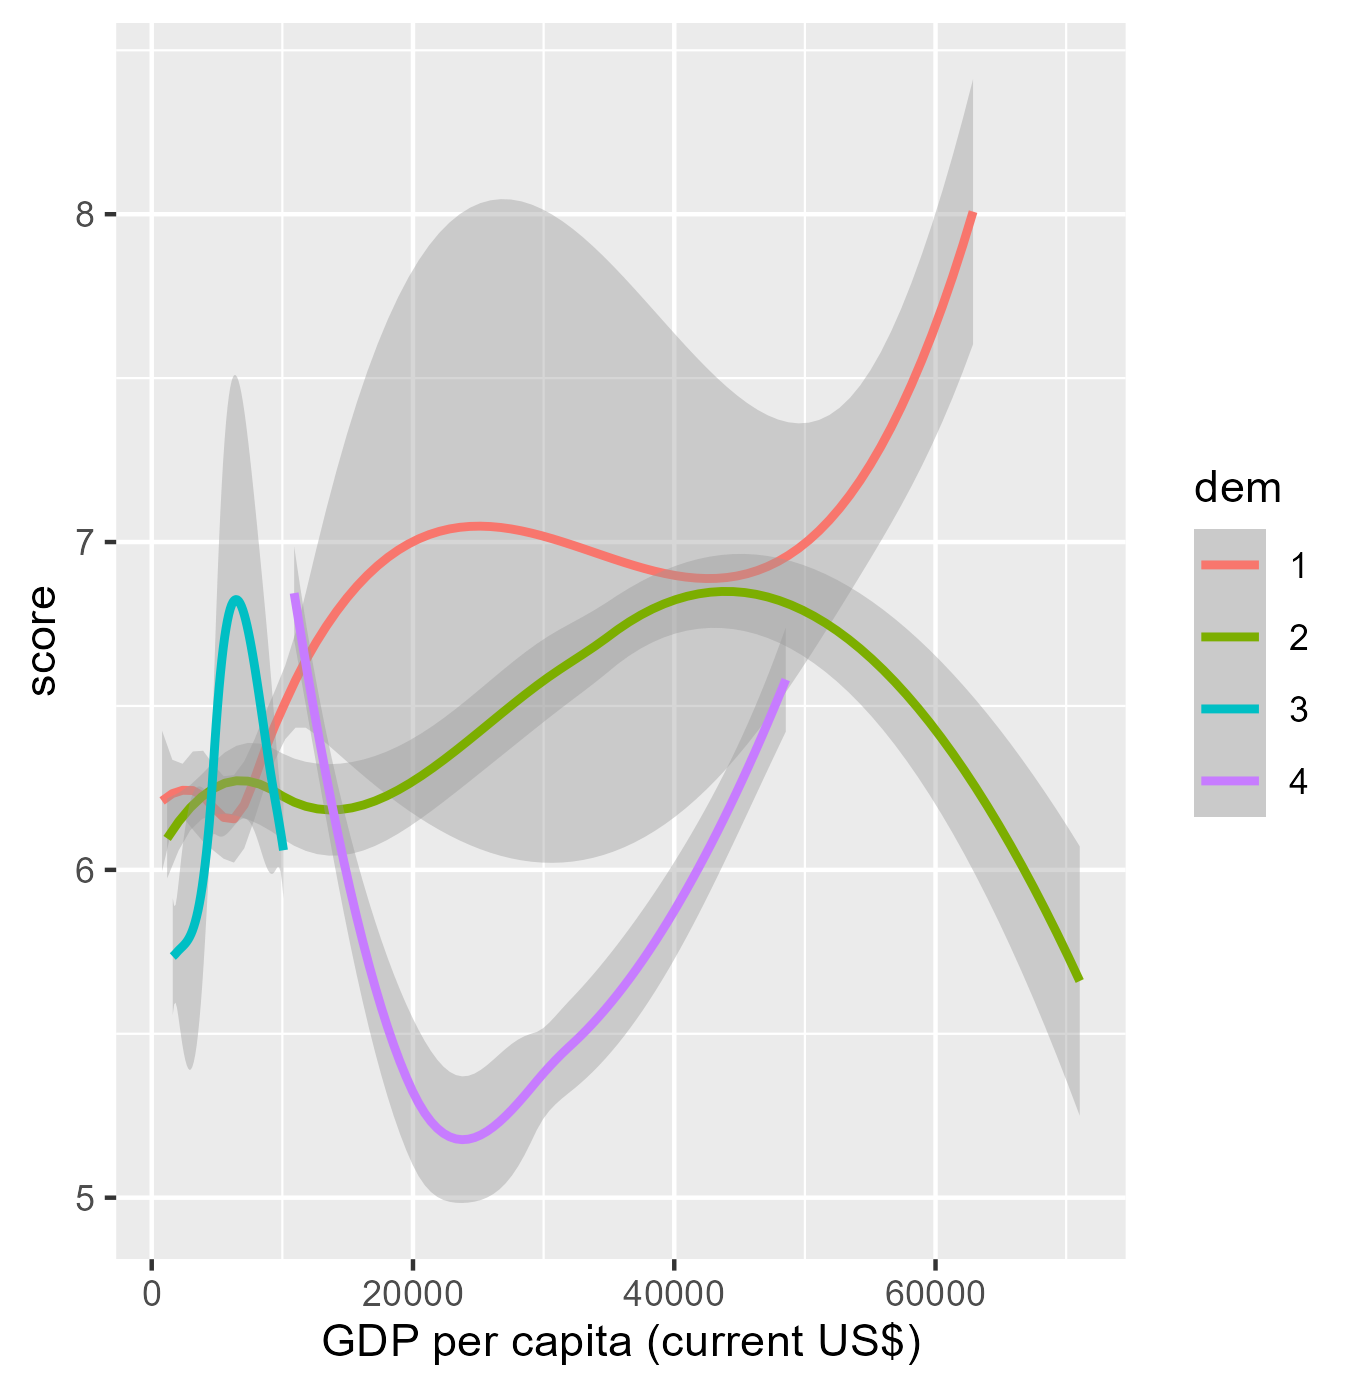
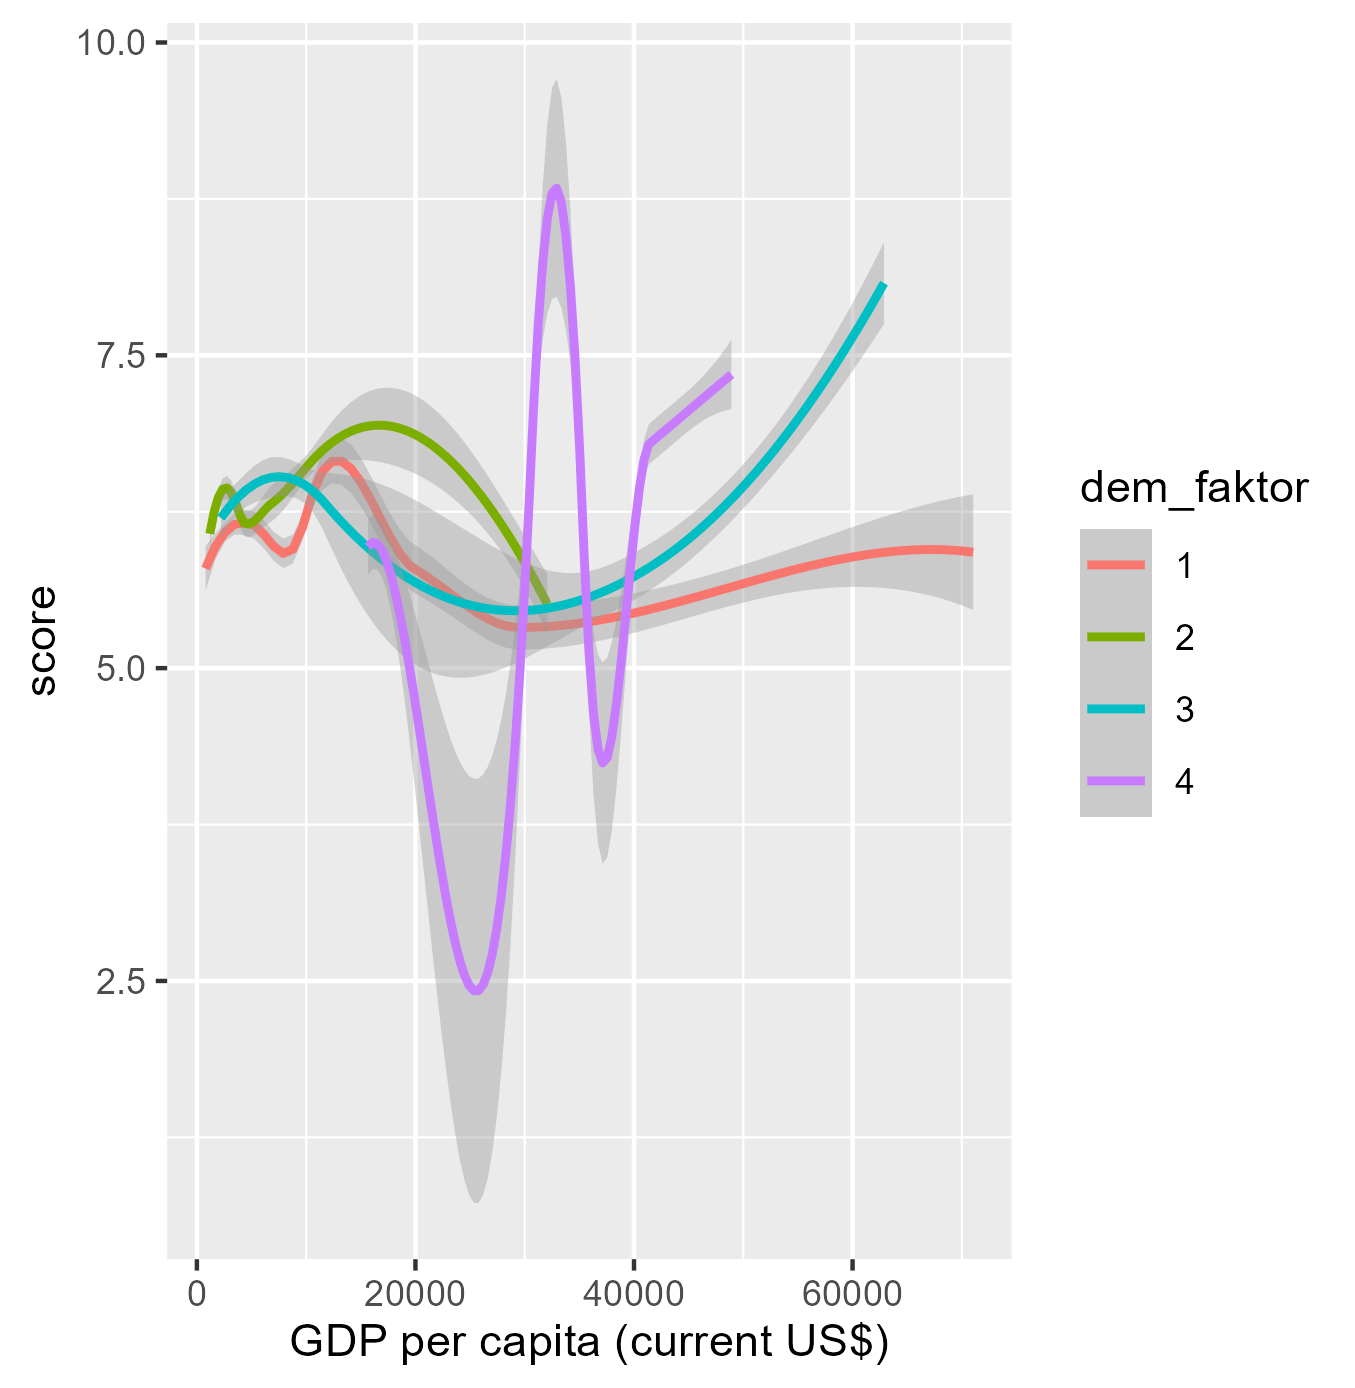
ja

diff --git a/tidy_tuesday/English_test/README.md b/tidy_tuesday/English_test/README.md
@@ -12,4 +12,5 @@ Jeg har en hypotese om at elevenes prestasjoner henger sammen med landets BNP, o
 
 For å undersøke dette lager jeg et plott der jeg ser på sammenhengen mellom BNP og testscore. Hvert land får fire observasjoner, én for hver av testene i lesing, skriving, lytting og snakking. Jeg bruker ulike linjer for de forskjellige nivåene av demokratiscore, slik at jeg kan undersøke om sammenhengen mellom BNP og testresultater varierer med graden av demokrati.
 
-![Bilde]
+![Bilde](https://github.com/ragnhild-thielemann/ECON3170/blob/main/diktaturer_med_laegs.png)
+
